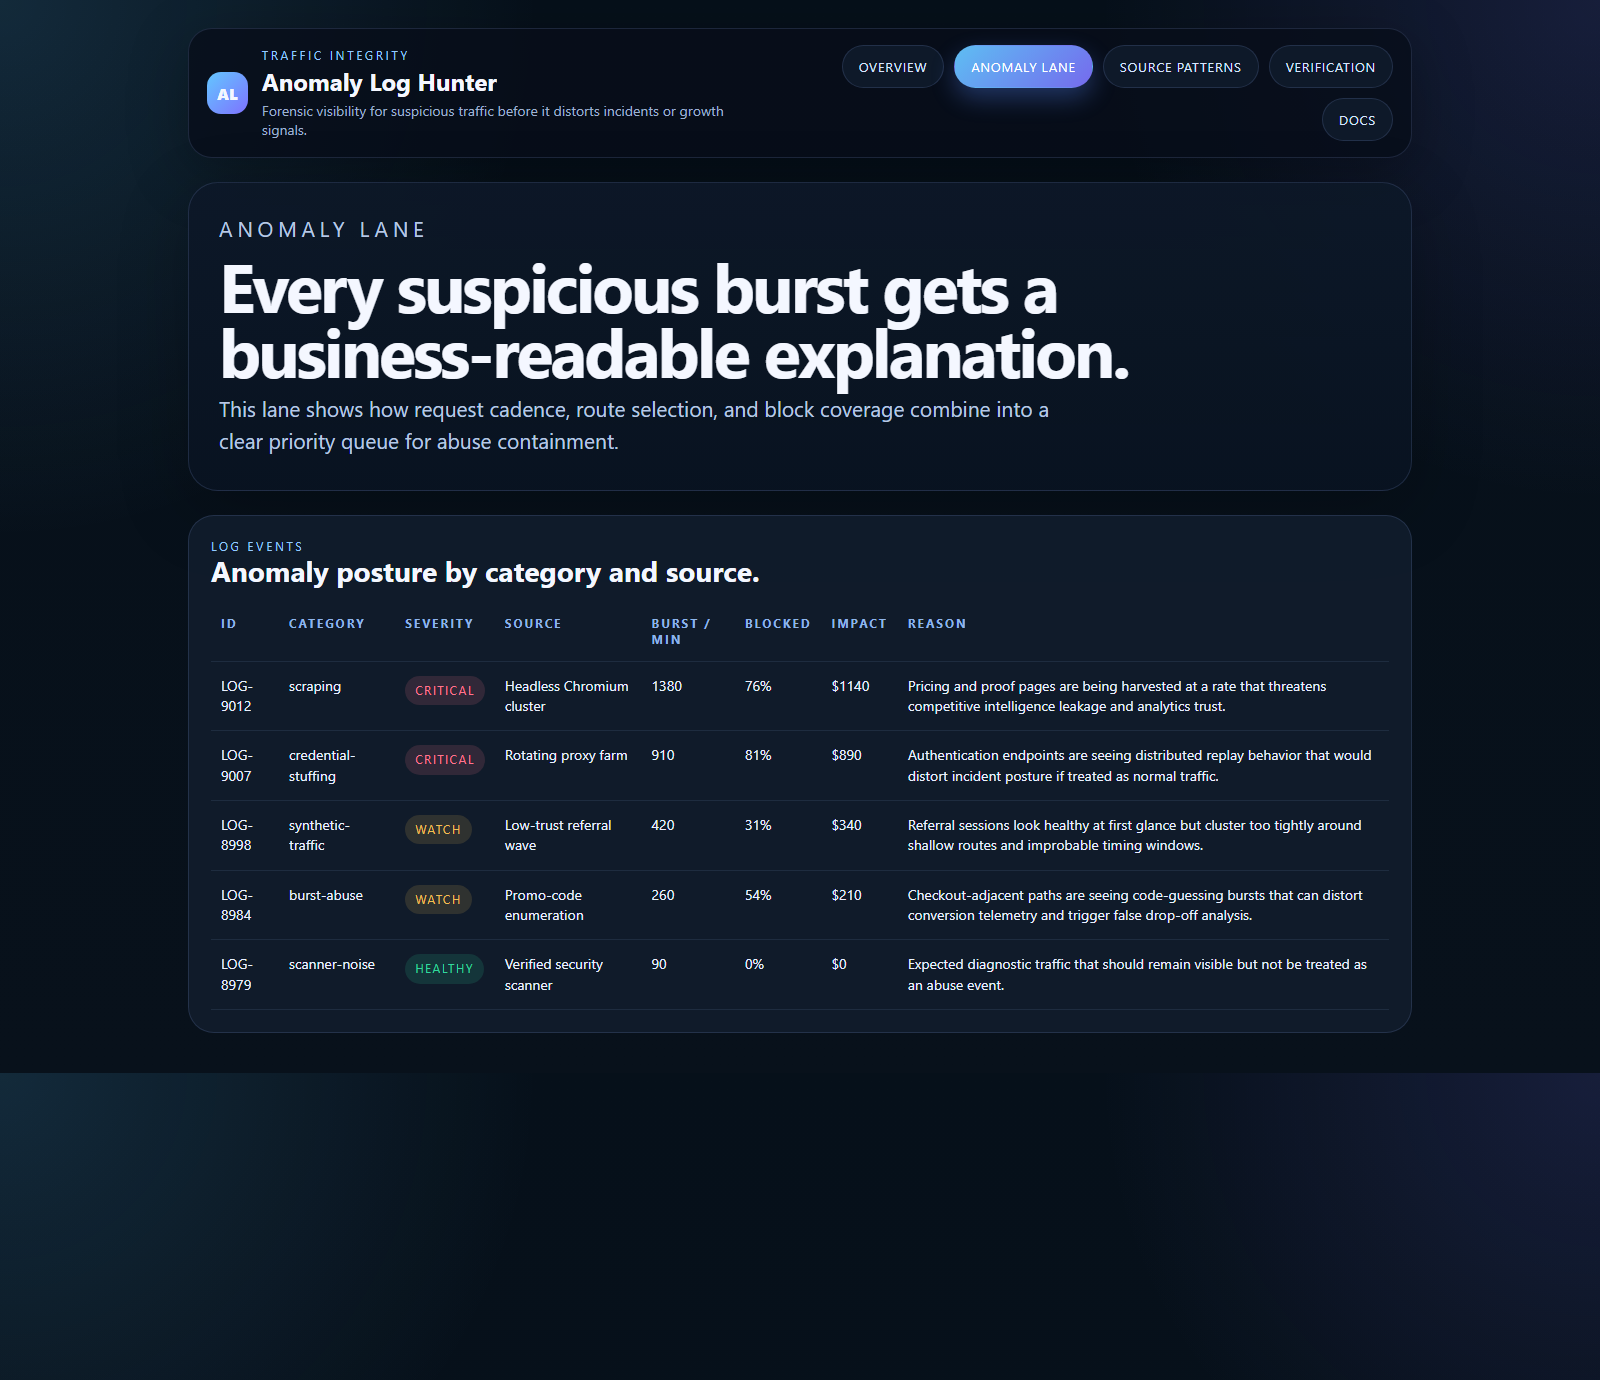
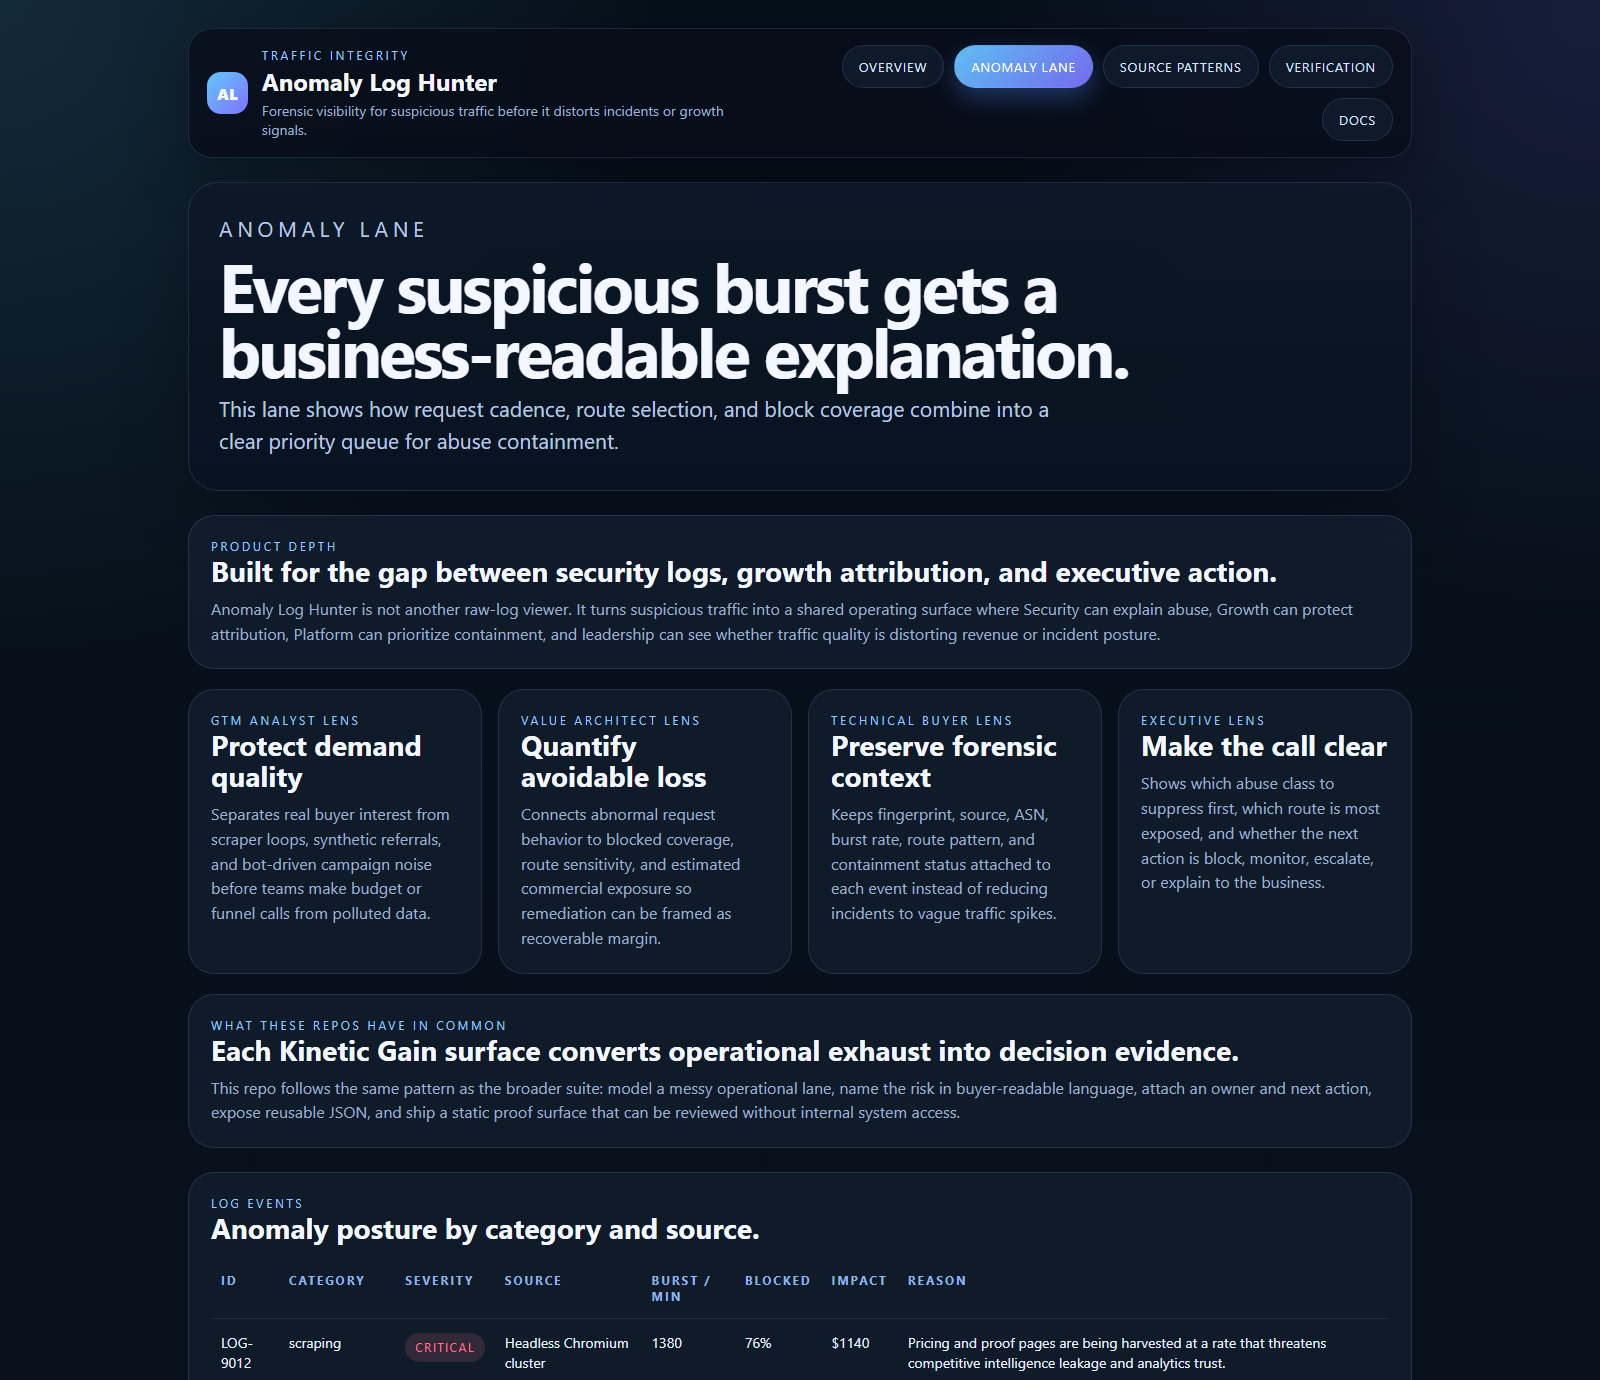
Deepen anomaly log proof surface

diff --git a/src/services/render.ts b/src/services/render.ts
@@ -105,8 +105,9 @@ function layout(title: string, activePath: string, body: string) {
       ul.clean { margin: 16px 0 0; padding-left: 18px; color: #dbe7fb; }
       ul.clean li { margin-top: 10px; line-height: 1.5; }
       .footer-note { margin-top: 20px; color: #88a5d4; font-size: 13px; letter-spacing: 0.04em; }
+      .depth-grid { display: grid; grid-template-columns: repeat(4, minmax(0, 1fr)); gap: 16px; }
       @media (max-width: 1100px) {
-        .metrics, .cols-2, .cols-3 { grid-template-columns: 1fr; }
+        .metrics, .cols-2, .cols-3, .depth-grid { grid-template-columns: 1fr; }
         nav { justify-content: flex-start; }
         .topbar { flex-direction: column; align-items: flex-start; }
       }
@@ -131,6 +132,44 @@ function layout(title: string, activePath: string, body: string) {
 </html>`;
 }
 
+function renderProductDepth() {
+  return `
+    <section class="section">
+      <article class="panel">
+        <p class="eyebrow">Product depth</p>
+        <h2 class="section-title">Built for the gap between security logs, growth attribution, and executive action.</h2>
+        <p class="section-copy">Anomaly Log Hunter is not another raw-log viewer. It turns suspicious traffic into a shared operating surface where Security can explain abuse, Growth can protect attribution, Platform can prioritize containment, and leadership can see whether traffic quality is distorting revenue or incident posture.</p>
+      </article>
+      <div class="depth-grid">
+        <article class="panel">
+          <p class="eyebrow">GTM analyst lens</p>
+          <h2 class="section-title">Protect demand quality</h2>
+          <p class="section-copy">Separates real buyer interest from scraper loops, synthetic referrals, and bot-driven campaign noise before teams make budget or funnel calls from polluted data.</p>
+        </article>
+        <article class="panel">
+          <p class="eyebrow">Value architect lens</p>
+          <h2 class="section-title">Quantify avoidable loss</h2>
+          <p class="section-copy">Connects abnormal request behavior to blocked coverage, route sensitivity, and estimated commercial exposure so remediation can be framed as recoverable margin.</p>
+        </article>
+        <article class="panel">
+          <p class="eyebrow">Technical buyer lens</p>
+          <h2 class="section-title">Preserve forensic context</h2>
+          <p class="section-copy">Keeps fingerprint, source, ASN, burst rate, route pattern, and containment status attached to each event instead of reducing incidents to vague traffic spikes.</p>
+        </article>
+        <article class="panel">
+          <p class="eyebrow">Executive lens</p>
+          <h2 class="section-title">Make the call clear</h2>
+          <p class="section-copy">Shows which abuse class to suppress first, which route is most exposed, and whether the next action is block, monitor, escalate, or explain to the business.</p>
+        </article>
+      </div>
+      <article class="panel">
+        <p class="eyebrow">What these repos have in common</p>
+        <h2 class="section-title">Each Kinetic Gain surface converts operational exhaust into decision evidence.</h2>
+        <p class="section-copy">This repo follows the same pattern as the broader suite: model a messy operational lane, name the risk in buyer-readable language, attach an owner and next action, expose reusable JSON, and ship a static proof surface that can be reviewed without internal system access.</p>
+      </article>
+    </section>`;
+}
+
 export function renderOverview() {
   const stats = summary();
   const signalMarkup = sourcePatterns()
@@ -152,6 +191,7 @@ export function renderOverview() {
       <h1>Suspicious traffic should be explainable before it becomes false incident noise.</h1>
       <p>Parse access-log anomalies, cluster repeated fingerprints, and turn noisy traffic bursts into business-facing risk signals for Growth, Security, and Platform teams.</p>
     </section>
+    ${renderProductDepth()}
     <section class="section">
       <div class="metrics">
         <article class="panel">
@@ -241,6 +281,7 @@ export function renderAnomalyLane() {
       <h1>Every suspicious burst gets a business-readable explanation.</h1>
       <p>This lane shows how request cadence, route selection, and block coverage combine into a clear priority queue for abuse containment.</p>
     </section>
+    ${renderProductDepth()}
     <section class="section">
       <article class="panel">
         <p class="eyebrow">Log Events</p>
@@ -333,6 +374,7 @@ export function renderDocs() {
       <h1>Modeled as a traffic-forensics control plane for Growth and Security teams.</h1>
       <p>This repo sits at the intersection of edge security, log analysis, and signal clarity. It is designed to show how suspicious traffic becomes a business and resilience issue, not just an ops detail.</p>
     </section>
+    ${renderProductDepth()}
     <section class="section">
       <div class="cols-2">
         <article class="panel">

diff --git a/README.md b/README.md
@@ -22,6 +22,19 @@ Raw logs are usually where suspicious traffic goes to disappear. By then:
 - reusable outputs for impact, block coverage, source clustering, and investigation posture
 - prerendered static site, JSON payloads, screenshots, and docs
 
+## What this product does
+
+Anomaly Log Hunter is a traffic-integrity proof surface for the moment where Security, Growth, and Platform teams need the same answer: is this traffic real, risky, expensive, or misleading?
+
+- **SaaS GTM analyst view:** protects campaign and funnel reporting from scraper loops, synthetic referrals, and bot-shaped demand before budget decisions are made from polluted signals.
+- **SaaS value architect view:** translates abnormal request behavior into estimated commercial exposure, blocked coverage, and route-level priority so containment reads as recoverable margin.
+- **Technical buyer view:** keeps fingerprint, source, ASN, burst rate, route pattern, severity, and next action attached to each anomaly instead of leaving raw logs as isolated ops evidence.
+- **Executive narrative:** shows whether leadership should block, monitor, escalate, or explain the abnormal traffic before it becomes false incident noise or bad growth data.
+
+## What these repos have in common
+
+This repo follows the broader Kinetic Gain pattern: turn operational exhaust into decision evidence. Each surface models a messy control lane, names the risk in buyer-readable language, attaches an owner or next action, exposes reusable JSON, and ships a static proof page that can be reviewed without internal system access.
+
 ## Routes
 
 - `/`